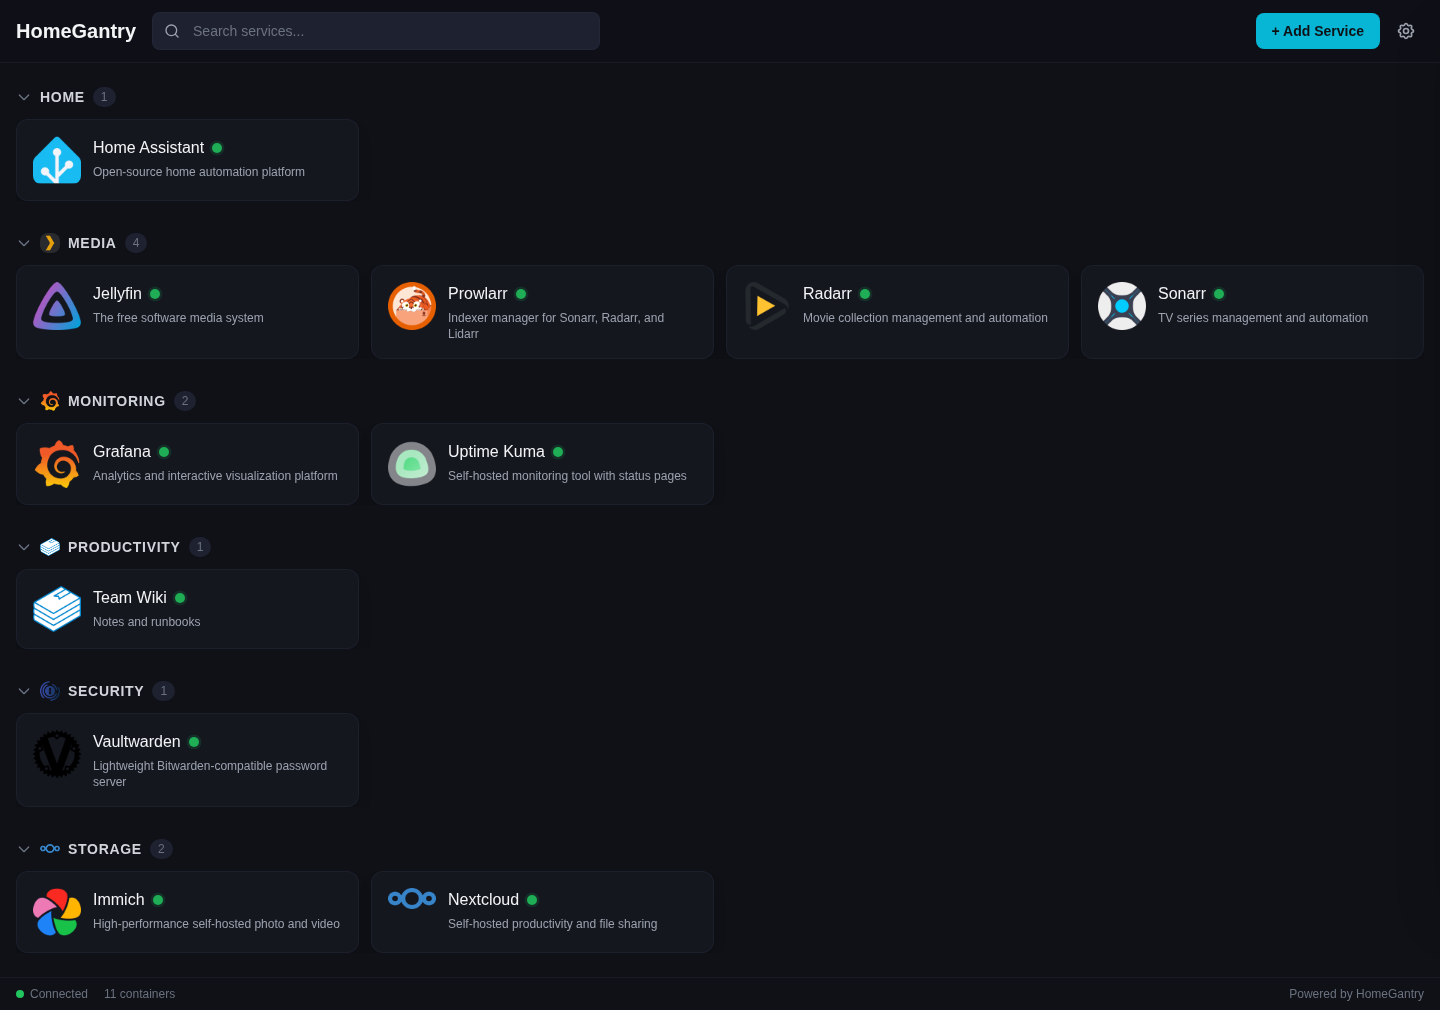
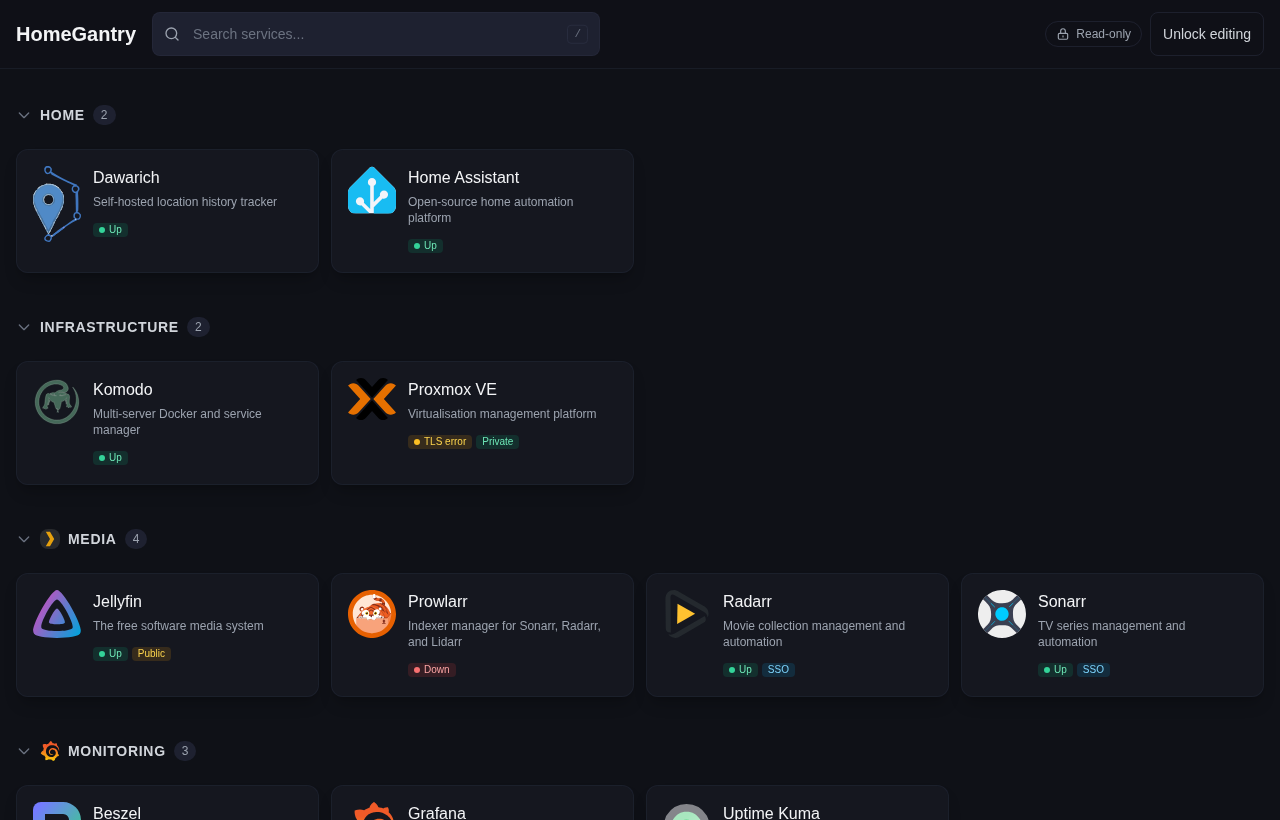
style(ui): 44 px targets on tablets, plain host labels, M4 screenshots
Screenshots from the fixture lab (npm run dev:fixture): search, keyboard
focus, shortcut overview, each grouping, phone (360 px) and tablet (820 px).

diff --git a/src/components/SettingsDrawer.tsx b/src/components/SettingsDrawer.tsx
@@ -111,7 +111,7 @@ function DrawerPanel({ onClose }: { onClose: () => void }) {
                     void save({ dashboardTitle: local.dashboardTitle });
                   }
                 }}
-                className="w-full min-h-11 sm:min-h-0 px-3 py-2 rounded-lg bg-surface-700 border border-surface-600/60 text-gray-100 placeholder-gray-500 focus:outline-none focus:border-accent/50 focus:ring-1 focus:ring-accent/30 transition-colors text-base sm:text-sm"
+                className="w-full min-h-11 px-3 py-2 rounded-lg bg-surface-700 border border-surface-600/60 text-gray-100 placeholder-gray-500 focus:outline-none focus:border-accent/50 focus:ring-1 focus:ring-accent/30 transition-colors text-base sm:text-sm"
               />
             </label>
 
@@ -209,7 +209,7 @@ function Choice<T extends string>({
             type="button"
             aria-pressed={value === o.value}
             onClick={() => onChange(o.value)}
-            className={`flex-1 min-h-11 sm:min-h-0 px-3 py-2 text-sm rounded-lg border transition-colors ${
+            className={`flex-1 min-h-11 px-3 py-2 text-sm rounded-lg border transition-colors ${
               value === o.value
                 ? 'bg-accent/10 border-accent text-accent'
                 : 'bg-surface-700 border-surface-600/60 text-gray-400 hover:text-gray-200'
@@ -260,7 +260,7 @@ function StackRow({
           }
         }}
         placeholder="Display name"
-        className="w-full min-h-11 sm:min-h-0 px-2 py-1 rounded bg-surface-700 border border-surface-600/60 text-gray-200 placeholder-gray-500 text-base sm:text-xs focus:outline-none focus:border-accent/50"
+        className="w-full min-h-11 px-2 py-1 rounded bg-surface-700 border border-surface-600/60 text-gray-200 placeholder-gray-500 text-base sm:text-xs focus:outline-none focus:border-accent/50"
       />
       <input
         type="text"
@@ -273,7 +273,7 @@ function StackRow({
           }
         }}
         placeholder="Icon slug"
-        className="w-full min-h-11 sm:min-h-0 px-2 py-1 rounded bg-surface-700 border border-surface-600/60 text-gray-200 placeholder-gray-500 text-base sm:text-xs focus:outline-none focus:border-accent/50"
+        className="w-full min-h-11 px-2 py-1 rounded bg-surface-700 border border-surface-600/60 text-gray-200 placeholder-gray-500 text-base sm:text-xs focus:outline-none focus:border-accent/50"
       />
     </div>
   );
@@ -291,7 +291,7 @@ function Toggle({
   onChange: (v: boolean) => void;
 }) {
   return (
-    <label className="flex items-center justify-between gap-3 min-h-11 sm:min-h-0 cursor-pointer">
+    <label className="flex items-center justify-between gap-3 min-h-11 cursor-pointer">
       <span className={hideLabel ? 'sr-only' : 'text-sm text-gray-400'}>{label}</span>
       <button
         type="button"

diff --git a/src/components/Header.tsx b/src/components/Header.tsx
@@ -17,7 +17,7 @@ interface Props {
 
 /** 44 px touch targets on phones, the usual compact size from `sm` up. */
 const BUTTON =
-  'min-h-11 sm:min-h-0 px-3 py-2 rounded-lg text-sm transition-colors whitespace-nowrap flex items-center justify-center';
+  'min-h-11 px-3 py-2 rounded-lg text-sm transition-colors whitespace-nowrap flex items-center justify-center';
 
 export default function Header({
   search,
@@ -88,7 +88,7 @@ export default function Header({
             onKeyDown={onKeyDown}
             autoComplete="off"
             spellCheck={false}
-            className="w-full min-h-11 sm:min-h-0 pl-10 pr-10 py-2 rounded-lg bg-surface-700 border border-surface-600/60 text-gray-100 placeholder-gray-500 focus:outline-none focus:border-accent/50 focus:ring-1 focus:ring-accent/30 transition-colors text-base sm:text-sm"
+            className="w-full min-h-11 pl-10 pr-10 py-2 rounded-lg bg-surface-700 border border-surface-600/60 text-gray-100 placeholder-gray-500 focus:outline-none focus:border-accent/50 focus:ring-1 focus:ring-accent/30 transition-colors text-base sm:text-sm"
           />
           <kbd
             aria-hidden="true"
@@ -158,7 +158,7 @@ export default function Header({
               <button
                 type="button"
                 onClick={onSettingsClick}
-                className="min-w-11 min-h-11 sm:min-w-0 sm:min-h-0 p-2 rounded-lg text-gray-400 hover:text-gray-200 hover:bg-surface-700 transition-colors flex items-center justify-center"
+                className="min-w-11 min-h-11 p-2 rounded-lg text-gray-400 hover:text-gray-200 hover:bg-surface-700 transition-colors flex items-center justify-center"
                 aria-label="Settings"
               >
                 <svg

diff --git a/src/components/Dashboard.tsx b/src/components/Dashboard.tsx
@@ -127,14 +127,15 @@ export default function Dashboard({ view, onEdit }: Props) {
     const n = view.results.length;
     content = (
       <>
+        <CategorySection
+          {...common}
+          label={`Results for “${view.query.trim()}”`}
+          plainLabel
+          services={view.results}
+        />
         <p role="status" className="sr-only">
           {n} result{n === 1 ? '' : 's'}
         </p>
-        <CategorySection
-          {...common}
-          label={`${n} result${n === 1 ? '' : 's'} for “${view.query.trim()}”`}
-          services={view.results}
-        />
       </>
     );
   } else if (view.shownCount === 0) {
@@ -165,6 +166,7 @@ export default function Dashboard({ view, onEdit }: Props) {
           label={group.label}
           services={group.services}
           icon={icon}
+          plainLabel={settings.groupBy === 'host'}
           collapsed={collapsed.has(key)}
           onToggle={() => toggle(key)}
         />

diff --git a/test/client/m4-ux.test.tsx b/test/client/m4-ux.test.tsx
@@ -23,6 +23,12 @@ if (!window.localStorage) {
   });
 }
 
+// axe probes icon fonts with a canvas, which jsdom does not implement (it would only log noise).
+Object.defineProperty(HTMLCanvasElement.prototype, 'getContext', {
+  configurable: true,
+  value: () => null,
+});
+
 const TOKEN = 'change-me-0123456789abcdefghij';
 const checkedAt = '2026-01-01T12:00:00.000Z';
 
@@ -278,7 +284,8 @@ describe('search', () => {
     fireEvent.change(searchBox(), { target: { value: 'media' } });
     // Name match (accent-insensitive) first, then category and description matches.
     expect(cardNames()).toEqual(['Médiathèque', 'Jellyfin', 'Plex']);
-    expect(screen.getByRole('heading', { name: /3 results/ })).toBeTruthy();
+    expect(screen.getByRole('heading', { name: 'Results for “media” 3' })).toBeTruthy();
+    expect(screen.getByRole('status').textContent).toBe('3 results');
     expect(screen.queryByRole('heading', { name: /^Media/ })).toBeNull();
   });
 

diff --git a/src/components/CategorySection.tsx b/src/components/CategorySection.tsx
@@ -16,6 +16,8 @@ interface Props {
   /** Collapsible groups only; search results are always open. */
   collapsed?: boolean;
   onToggle?: () => void;
+  /** Show the label as written (host names, search queries) instead of upper case. */
+  plainLabel?: boolean;
 }
 
 const GRID_COLS: Record<number, string> = {
@@ -38,6 +40,7 @@ export default function CategorySection({
   onEdit,
   collapsed = false,
   onToggle,
+  plainLabel = false,
 }: Props) {
   const headingId = useId();
   const listId = useId();
@@ -45,7 +48,9 @@ export default function CategorySection({
   const title = (
     <>
       {icon && <ServiceIcon slug={icon} name={label} size={20} decorative />}
-      <span className="text-sm font-semibold text-gray-300 uppercase tracking-wider truncate">
+      <span
+        className={`text-sm font-semibold text-gray-300 truncate ${plainLabel ? '' : 'uppercase tracking-wider'}`}
+      >
         {label}
       </span>{' '}
       <span

diff --git a/src/components/ShortcutsDialog.tsx b/src/components/ShortcutsDialog.tsx
@@ -19,7 +19,7 @@ export default function ShortcutsDialog({ onClose }: { onClose: () => void }) {
       <dl className="space-y-2.5 text-sm">
         {SHORTCUTS.map(({ keys, action }) => (
           <div key={action} className="flex items-start gap-3">
-            <dt className="flex gap-1 shrink-0 w-28 flex-wrap">
+            <dt className="flex gap-1 shrink-0 w-24 sm:w-36 flex-wrap">
               {keys.map((k) => (
                 <kbd key={k} className={KBD}>
                   {k}
